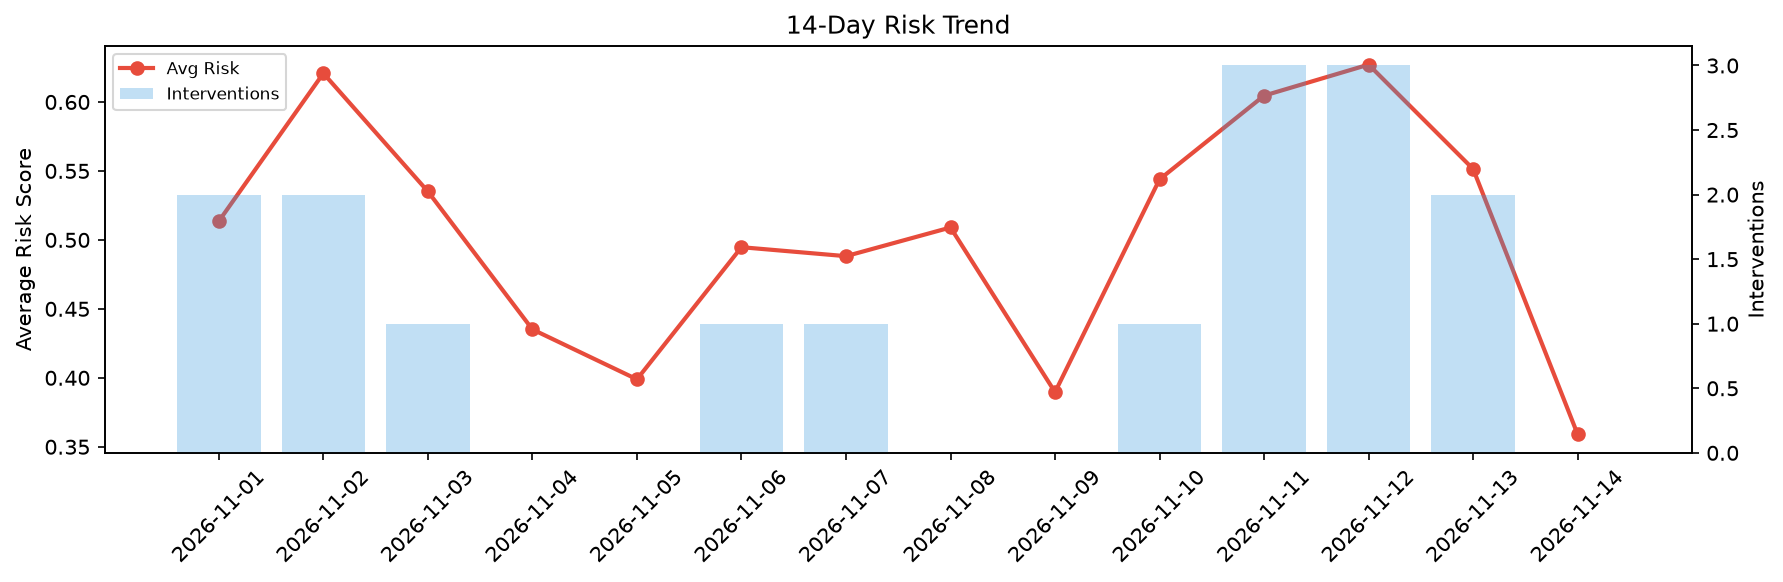
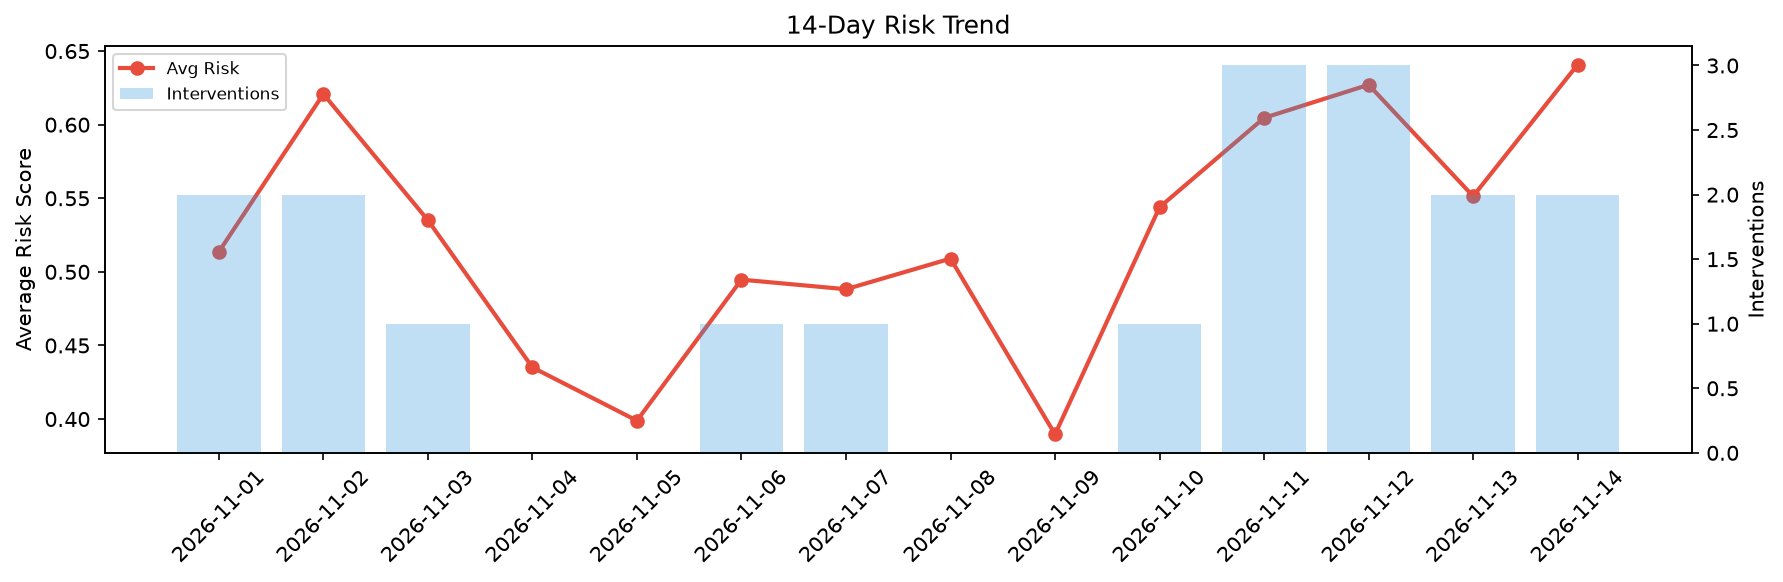
agent-improvement: daily cycle 2026-11-14T15:04

diff --git a/logs/2026-11-14.md b/logs/2026-11-14.md
@@ -1,6 +1,6 @@
 # Agent Improvement Report — 2026-11-14
 
-**Cycle ID:** `40ca4983` | **Avg Risk:** 0.359 | **Interventions:** 0/4
+**Cycle ID:** `ef55b6c1` | **Avg Risk:** 0.6408 | **Interventions:** 2/4
 
 ![Dashboard](2026-11-14_dashboard.png)
 
@@ -10,18 +10,18 @@
 
 | Domain | Risk Score | Decision | Alerts |
 |--------|-----------|----------|--------|
-| code_review | 0.5515 | monitor | coverage |
-| incident_response | 0.4635 | monitor | severity |
-| data_pipeline | 0.0738 | monitor | none |
-| deployment | 0.3471 | monitor | none |
+| code_review | 0.8386 | intervene | complexity, duplication |
+| incident_response | 0.7287 | intervene | blast_radius, mttr |
+| data_pipeline | 0.5636 | monitor | none |
+| deployment | 0.4322 | monitor | canary_error |
 
 ## Delta vs Yesterday
 
 | Domain | Today | Yesterday | Change |
 |--------|-------|-----------|--------|
-| code_review | 0.5515 | 0.4015 | 📈 37.4% |
-| incident_response | 0.4635 | 0.6137 | 📉 -24.5% |
-| data_pipeline | 0.0738 | 0.6932 | 📉 -89.4% |
-| deployment | 0.3471 | 0.4972 | 📉 -30.2% |
+| code_review | 0.8386 | 0.4015 | 📈 108.9% |
+| incident_response | 0.7287 | 0.6137 | 📈 18.7% |
+| data_pipeline | 0.5636 | 0.6932 | 📉 -18.7% |
+| deployment | 0.4322 | 0.4972 | 📉 -13.1% |
 
 **Refinement:** `{'adjustment': 'maintain', 'trend': 'improving', 'window': 4}`
